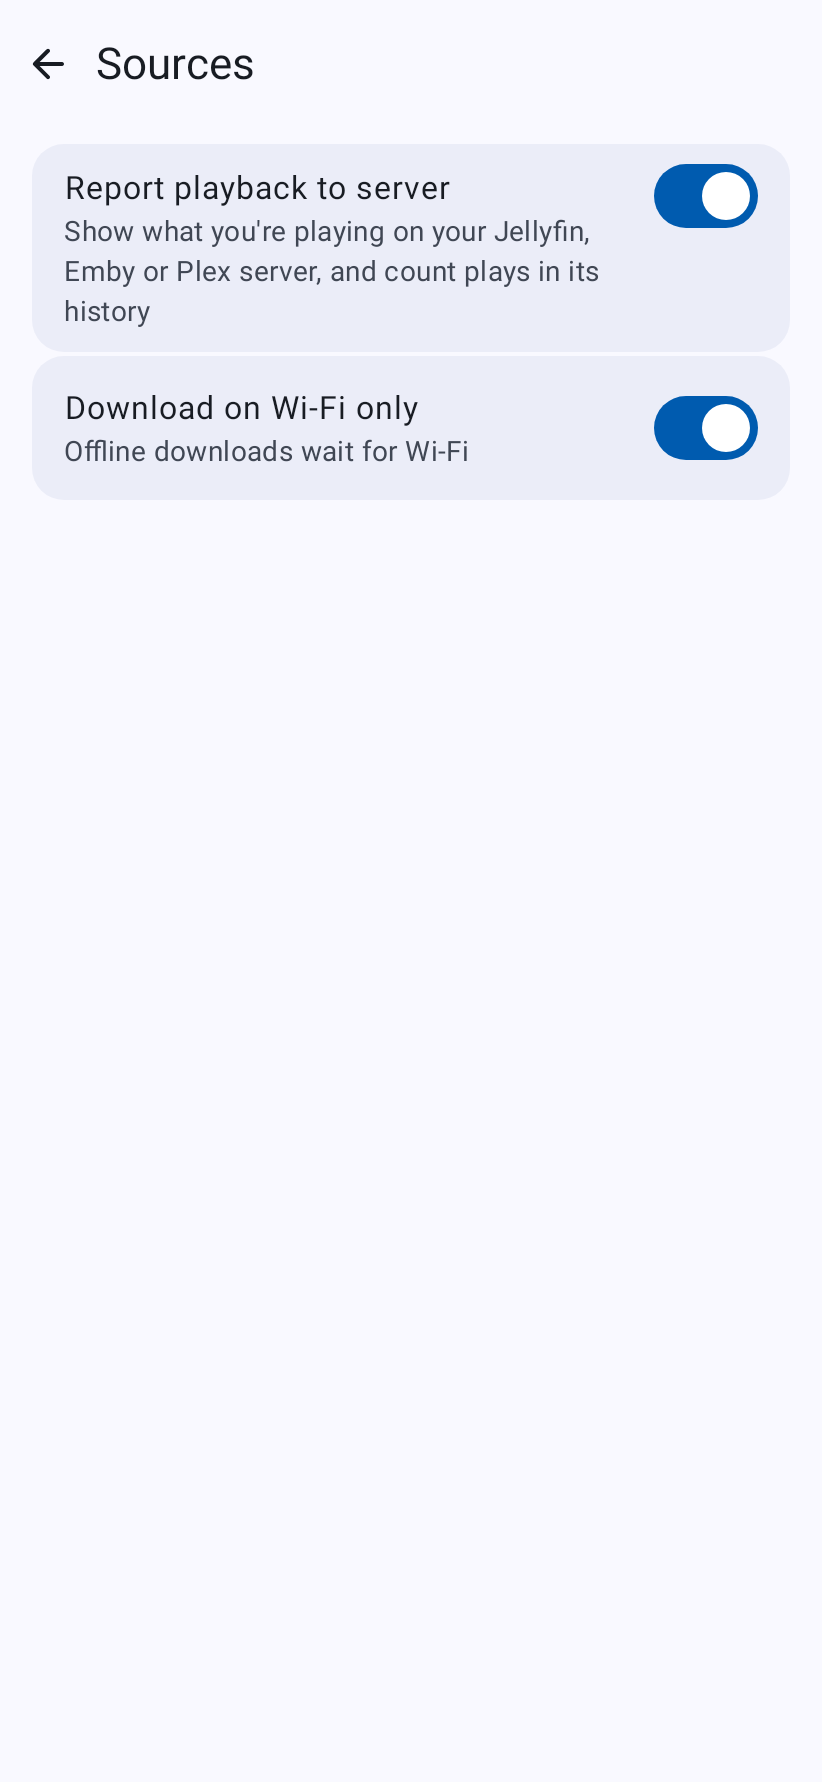
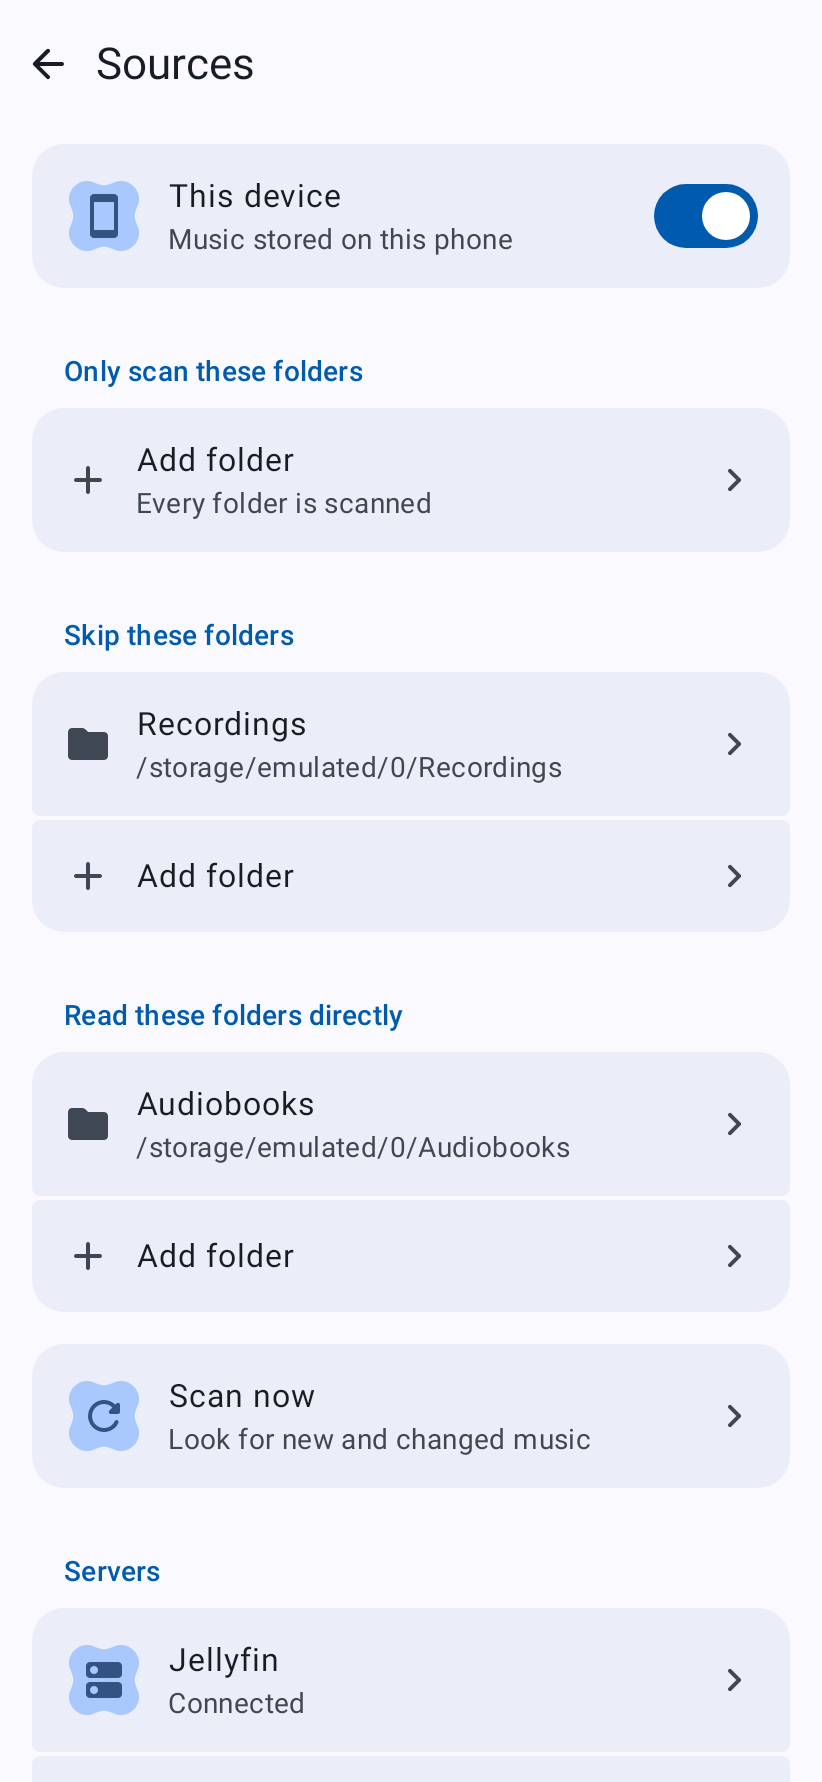
fix(app): record Settings > Sources with its rows and refresh stale status lines
SettingsScreenshotTest.sources() never passed the Sources rows as leading
content, so docs/design/settings/sources.png showed an empty screen. Both it
and the onboarding shot now render one shared SourcesScenarios state.
monetisation.md no longer says nothing is implemented, and the redesign
inventory ticks the Queue, scan, rescan and analytics items whose gaps have
closed. The ServerAccessGate "pending decision" comment went with #488.

Changelog: none
Closes #489

diff --git a/android/app/src/test/java/com/simplecityapps/shuttle/ui/screens/settings/SettingsScreenshotTest.kt b/android/app/src/test/java/com/simplecityapps/shuttle/ui/screens/settings/SettingsScreenshotTest.kt
@@ -1,6 +1,7 @@
 package com.simplecityapps.shuttle.ui.screens.settings
 
 import androidx.activity.ComponentActivity
+import androidx.compose.foundation.lazy.LazyListScope
 import androidx.compose.runtime.Composable
 import androidx.compose.ui.test.junit4.createAndroidComposeRule
 import androidx.compose.ui.test.onRoot
@@ -16,6 +17,8 @@ import com.simplecityapps.shuttle.ui.screens.settings.excluded.ExcludedSongsScre
 import com.simplecityapps.shuttle.ui.screens.settings.excluded.ExcludedSongsUiState
 import com.simplecityapps.shuttle.ui.screens.settings.model.SettingsCatalog
 import com.simplecityapps.shuttle.ui.screens.settings.model.SettingsDestination
+import com.simplecityapps.shuttle.ui.screens.sources.SourcesScenarios
+import com.simplecityapps.shuttle.ui.screens.sources.sourcesContent
 import com.simplecityapps.shuttle.ui.theme.AppThemeState
 import com.simplecityapps.shuttle.ui.theme.S2AppTheme
 import java.io.File
@@ -53,7 +56,8 @@ class SettingsScreenshotTest {
 
     private fun destination(
         destination: SettingsDestination,
-        uiState: SettingsUiState = SettingsUiState()
+        uiState: SettingsUiState = SettingsUiState(),
+        leadingContent: LazyListScope.() -> Unit = {}
     ): @Composable () -> Unit = {
         SettingsDestinationScreen(
             screen = SettingsCatalog.screen(destination),
@@ -64,7 +68,8 @@ class SettingsScreenshotTest {
             onSliderChange = { _, _ -> },
             onAction = {},
             onOpenLink = {},
-            versionName = "2026.09.25"
+            versionName = "2026.09.25",
+            leadingContent = leadingContent
         )
     }
 
@@ -81,7 +86,10 @@ class SettingsScreenshotTest {
     fun playbackAndSound() = shot("playback-and-sound", content = destination(SettingsDestination.PlaybackAndSound))
 
     @Test
-    fun sources() = shot("sources", content = destination(SettingsDestination.Sources))
+    fun sources() = shot(
+        "sources",
+        content = destination(SettingsDestination.Sources) { sourcesContent(SourcesScenarios.configured, SourcesScenarios.noActions) }
+    )
 
     @Test
     fun library() = shot("library", content = destination(SettingsDestination.Library, SettingsScenarios.scannedWeekly))

diff --git a/android/app/src/test/java/com/simplecityapps/shuttle/ui/screens/sources/OnboardingScreenshotTest.kt b/android/app/src/test/java/com/simplecityapps/shuttle/ui/screens/sources/OnboardingScreenshotTest.kt
@@ -10,7 +10,6 @@ import androidx.compose.ui.Modifier
 import androidx.compose.ui.test.junit4.createAndroidComposeRule
 import androidx.compose.ui.test.onRoot
 import com.github.takahirom.roborazzi.captureRoboImage
-import com.simplecityapps.shuttle.model.MediaProviderType
 import com.simplecityapps.shuttle.settings.ThemeMode
 import com.simplecityapps.shuttle.ui.DocsDesignRoborazziOptions
 import com.simplecityapps.shuttle.ui.screens.library.LibraryAvailability
@@ -74,15 +73,6 @@ class OnboardingScreenshotTest {
 
     @Test
     fun sources() = shot("sources") {
-        val uiState = SourcesUiState(
-            thisDevice = true,
-            folders = FolderLists(
-                excludes = listOf(SourceFolder(uri = null, path = "/storage/emulated/0/Recordings", name = "Recordings")),
-                extras = listOf(SourceFolder(uri = "content://tree/Audiobooks", path = "/storage/emulated/0/Audiobooks", name = "Audiobooks")),
-            ),
-            servers = ServerTypes.map { ServerSource(it, connected = it == MediaProviderType.Jellyfin) },
-        )
-        val actions = SourcesActions(onThisDeviceChange = {}, onAddFolder = {}, onRescan = {}, onServerClick = {}, onShowDialog = {})
         SettingsDestinationScreen(
             screen = SettingsCatalog.screen(SettingsDestination.Sources),
             uiState = SettingsUiState(),
@@ -92,7 +82,7 @@ class OnboardingScreenshotTest {
             onSliderChange = { _, _ -> },
             onAction = {},
             onOpenLink = {},
-            leadingContent = { sourcesContent(uiState, actions) },
+            leadingContent = { sourcesContent(SourcesScenarios.configured, SourcesScenarios.noActions) },
         )
     }
 

diff --git a/android/app/src/test/java/com/simplecityapps/shuttle/ui/screens/sources/SourcesScenarios.kt b/android/app/src/test/java/com/simplecityapps/shuttle/ui/screens/sources/SourcesScenarios.kt
@@ -1,0 +1,18 @@
+package com.simplecityapps.shuttle.ui.screens.sources
+
+import com.simplecityapps.shuttle.model.MediaProviderType
+
+/** Settings > Sources states the screenshot tests render. */
+object SourcesScenarios {
+    /** This device on with an excluded and an extra folder, and Jellyfin connected. */
+    val configured = SourcesUiState(
+        thisDevice = true,
+        folders = FolderLists(
+            excludes = listOf(SourceFolder(uri = null, path = "/storage/emulated/0/Recordings", name = "Recordings")),
+            extras = listOf(SourceFolder(uri = "content://tree/Audiobooks", path = "/storage/emulated/0/Audiobooks", name = "Audiobooks")),
+        ),
+        servers = ServerTypes.map { ServerSource(it, connected = it == MediaProviderType.Jellyfin) },
+    )
+
+    val noActions = SourcesActions(onThisDeviceChange = {}, onAddFolder = {}, onRescan = {}, onServerClick = {}, onShowDialog = {})
+}

diff --git a/docs/architecture/redesign-inventory.md b/docs/architecture/redesign-inventory.md
@@ -460,25 +460,25 @@ Audited against the code on 2026-09-26: [parity-audit.md](parity-audit.md) maps 
 - [ ] Search: artists/albums/songs, fuzzy ranking, filter chips persisted, shared-element open — gap #431
 - [x] Home sections and Shuffle all
 - [ ] Mini player: progress, play/pause, skip, long-press seek — gap #430
-- [ ] Now Playing: artwork swipe skip, shuffle, repeat ×3, seek, long-press seek, audiobook seek buttons, artist/album links, Cast, lyrics, favorite, clear queue — gaps #473, #430, #429
-- [ ] Queue: tap to play, reorder, remove, Play next, scroll to current, save as playlist, clear — gap #472
+- [ ] Now Playing: artwork swipe skip, shuffle, repeat ×3, seek, long-press seek, audiobook seek buttons, artist/album links, Cast, lyrics, favorite, clear queue — gaps #430, #429 (#473 fixed)
+- [x] Queue: tap to play, reorder, remove, Play next, scroll to current, save as playlist, clear (#472)
 - [x] Sleep timer: presets, play to end of track, live countdown, stop
 - [ ] EQ: on/off, presets, custom bands, ReplayGain mode, pre-amp, frequency response — gap #432
 - [x] USB DAC direct output (API 34+), Keep shuffle on new queue
 - [x] Permission in context on API 23–32 (`READ_EXTERNAL_STORAGE`) and 33+ (`READ_MEDIA_AUDIO`), incl. permanent denial
-- [ ] Local scan without folder picking; optional include/exclude folders; revoked grant surfaced — gap #479
-- [ ] Rescan now, rescan frequency, last scan date; scan progress and failures visible — gap #474
+- [x] Local scan without folder picking; optional include/exclude folders; revoked grant surfaced (#479)
+- [x] Rescan now, rescan frequency, last scan date; scan progress and failures visible (#474)
 - [x] Excluded items: view, restore one, clear all
 - [x] Jellyfin, Emby, Plex: connect, edit, remember password, errors with retry, remove source (cleans queue and library), report playback
 - [x] Theme, pure black, accent, dynamic colour, Home-or-Library on launch
 - [x] Artwork: Wi-Fi only, local only, clear cache, download all, media session artwork
 - [x] Widget opacity, both widget sizes still update
-- [ ] Crash reporting and analytics toggles; Remote Config still refreshes as decided — gap #476
+- [x] Crash reporting and analytics toggles; Remote Config still refreshes as decided (#476)
 - [x] File logging, copy logs (the debug live log is dropped on purpose, #471: logcat covers it)
 - [x] Changelog reachable; licences
-- [ ] Purchase (Lifetime, Annual, Monthly plan cards), thank-you, promo code path (visible in Settings > S2 Pro), review prompt — gap #418
+- [ ] Purchase (Lifetime and Annual plan cards; no monthly plan, per #380), thank-you, promo code path (visible in Settings > S2 Pro), review prompt — gap #418
 - [x] Grandfathering: all 5 legacy product IDs (monthly, yearly, yearly_low, iap_full_version, iap_full_version_low) still grant Pro
-- [ ] Server trial: starts on first server connection, 14 days no card, trial chip in Library top bar for the last 3 days — gap #418
+- [ ] Server trial: starts on the first server stream or download (#488), 14 days no card, trial chip in Library top bar for the last 3 days — gap #418
 - [x] Paywall entry points: add-server (before connecting), trial end (on tapping play on a remote song), Settings > S2 Pro
 - [x] Intents: play-from-search, VIEW audio file, default music app; Toggle playback shortcut
 - [x] Android Auto browse and playback; Cast connect from Now Playing

diff --git a/docs/product/monetisation.md b/docs/product/monetisation.md
@@ -1,6 +1,8 @@
 # Monetisation model for the redesign
 
-Status: recommendation, 2026-09-25. Nothing here is implemented yet.
+Status: implemented, 2026-09-26. The entitlement layer (`:android:trial`), the server gates and the paywall
+landed with c6066b1d3; the trial starts on the first server stream or download (#488). Sections 1 to 5 are
+the reasoning behind it and read as the original recommendation.
 
 ## Decisions (2026-09-25)
 
@@ -171,7 +173,7 @@ Also expect the "Shuttle+ was abandoned" crowd to reappear in reviews. Draft rep
   - Only the remote-provider playback path and the add-server flow read it. Playback speed never does.
   - Delete `TrialInitializer`'s speed code, `TrialState.Expired.multiplier`, the `pricing_tier` Remote Config key and the `_low` switch.
 - **Server-side verification** isn't needed at this scale. If fraud shows up, verify through the existing `api.shuttlemusicplayer.app` backend using the Play Developer API and Real-time Developer Notifications.
-- **Bug to fix in any case:** `processPurchases` ignores `purchaseState`, so a PENDING purchase unlocks the app today.
+- **Bug to fix in any case (fixed):** `processPurchases` ignored `purchaseState`, so a PENDING purchase unlocked the app. `PlayBilling` now counts only PURCHASED purchases.
 
 ## 6. Measuring it
 
